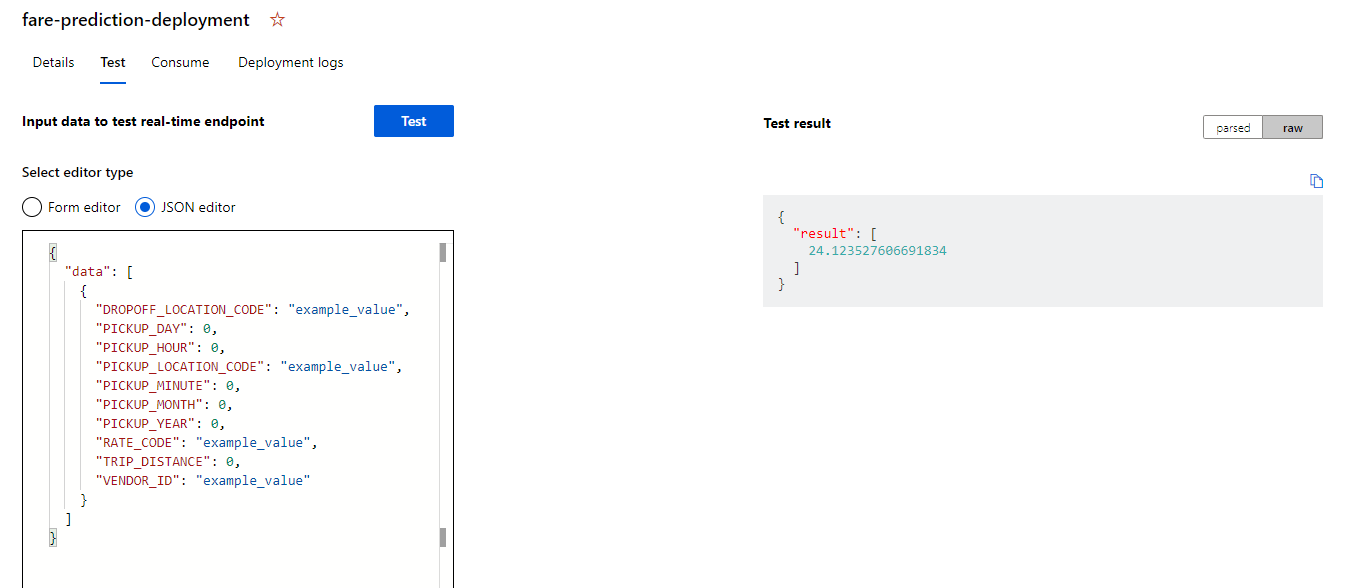
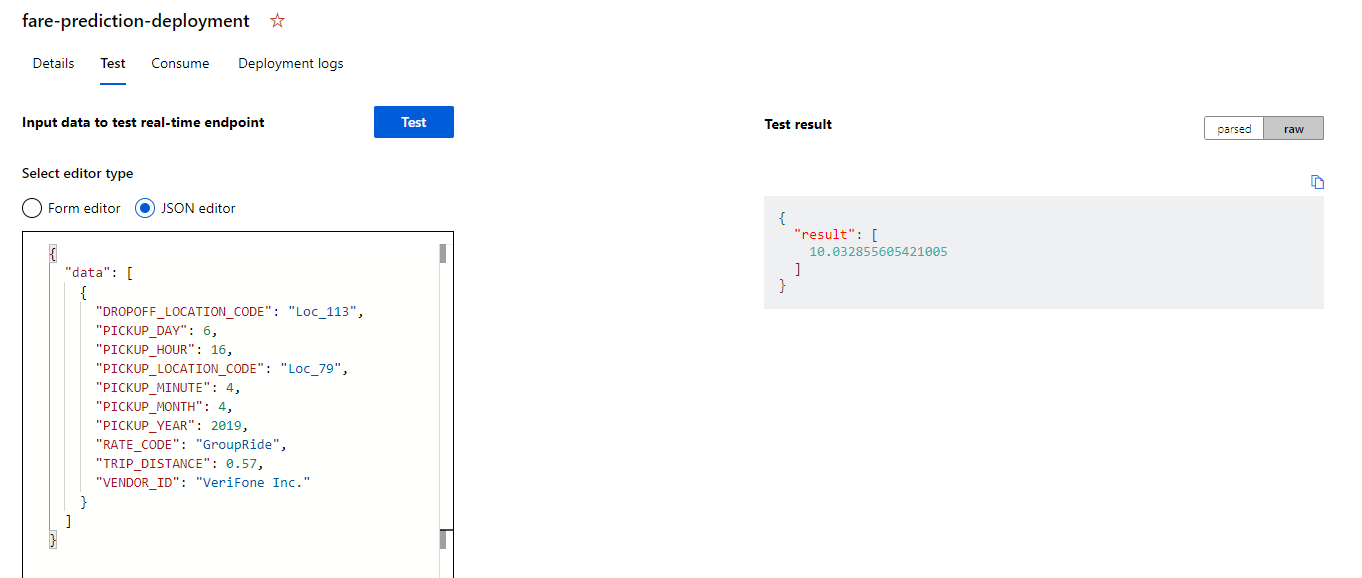
Updating documentation

diff --git a/README.md b/README.md
@@ -253,22 +253,20 @@ You can monitor your deployment by clicking on the 'Endpoints' tab on the left r
 You can test your endpoint by navigating to the <i>Test</i> tab. Select the <i>JSON editor</i> option and enter the JSON below then click <i>Test</i>. Select 'raw' under the Test result panel. <b>Note:</b> Your specific results will likely be slightly different.
 ```
 {
-  "Inputs": {
-    "data": [
-      {
-        "DROPOFF_LOCATION_CODE": "Loc_113",
-        "PICKUP_DAY": 6,
-        "PICKUP_HOUR": 16,
-        "PICKUP_LOCATION_CODE": "Loc_79",
-        "PICKUP_MINUTE": 4,
-        "PICKUP_MONTH": 4,
-        "PICKUP_YEAR": 2019,
-        "RATE_CODE": "GroupRide",
-        "TRIP_DISTANCE": 0.57,
-        "VENDOR_ID": "VeriFone Inc."
-      }
-    ]
-  }
+  "data": [
+    {
+      "DROPOFF_LOCATION_CODE": "Loc_113",
+      "PICKUP_DAY": 6,
+      "PICKUP_HOUR": 16,
+      "PICKUP_LOCATION_CODE": "Loc_79",
+      "PICKUP_MINUTE": 4,
+      "PICKUP_MONTH": 4,
+      "PICKUP_YEAR": 2019,
+      "RATE_CODE": "GroupRide",
+      "TRIP_DISTANCE": 0.57,
+      "VENDOR_ID": "VeriFone Inc."
+    }
+  ]
 }
 ```
 
@@ -281,6 +279,8 @@ If you do not have Power BI Desktop installed, [download the PBI Desktop Install
 Launch Power BI Desktop from the start menu.
 
 ![Launch Power BI](doc_img/39.png?raw=true "Launch Power BI")
+
+
 
 ## Step 8 - Connect Deployed Model into Power BI Report
 
